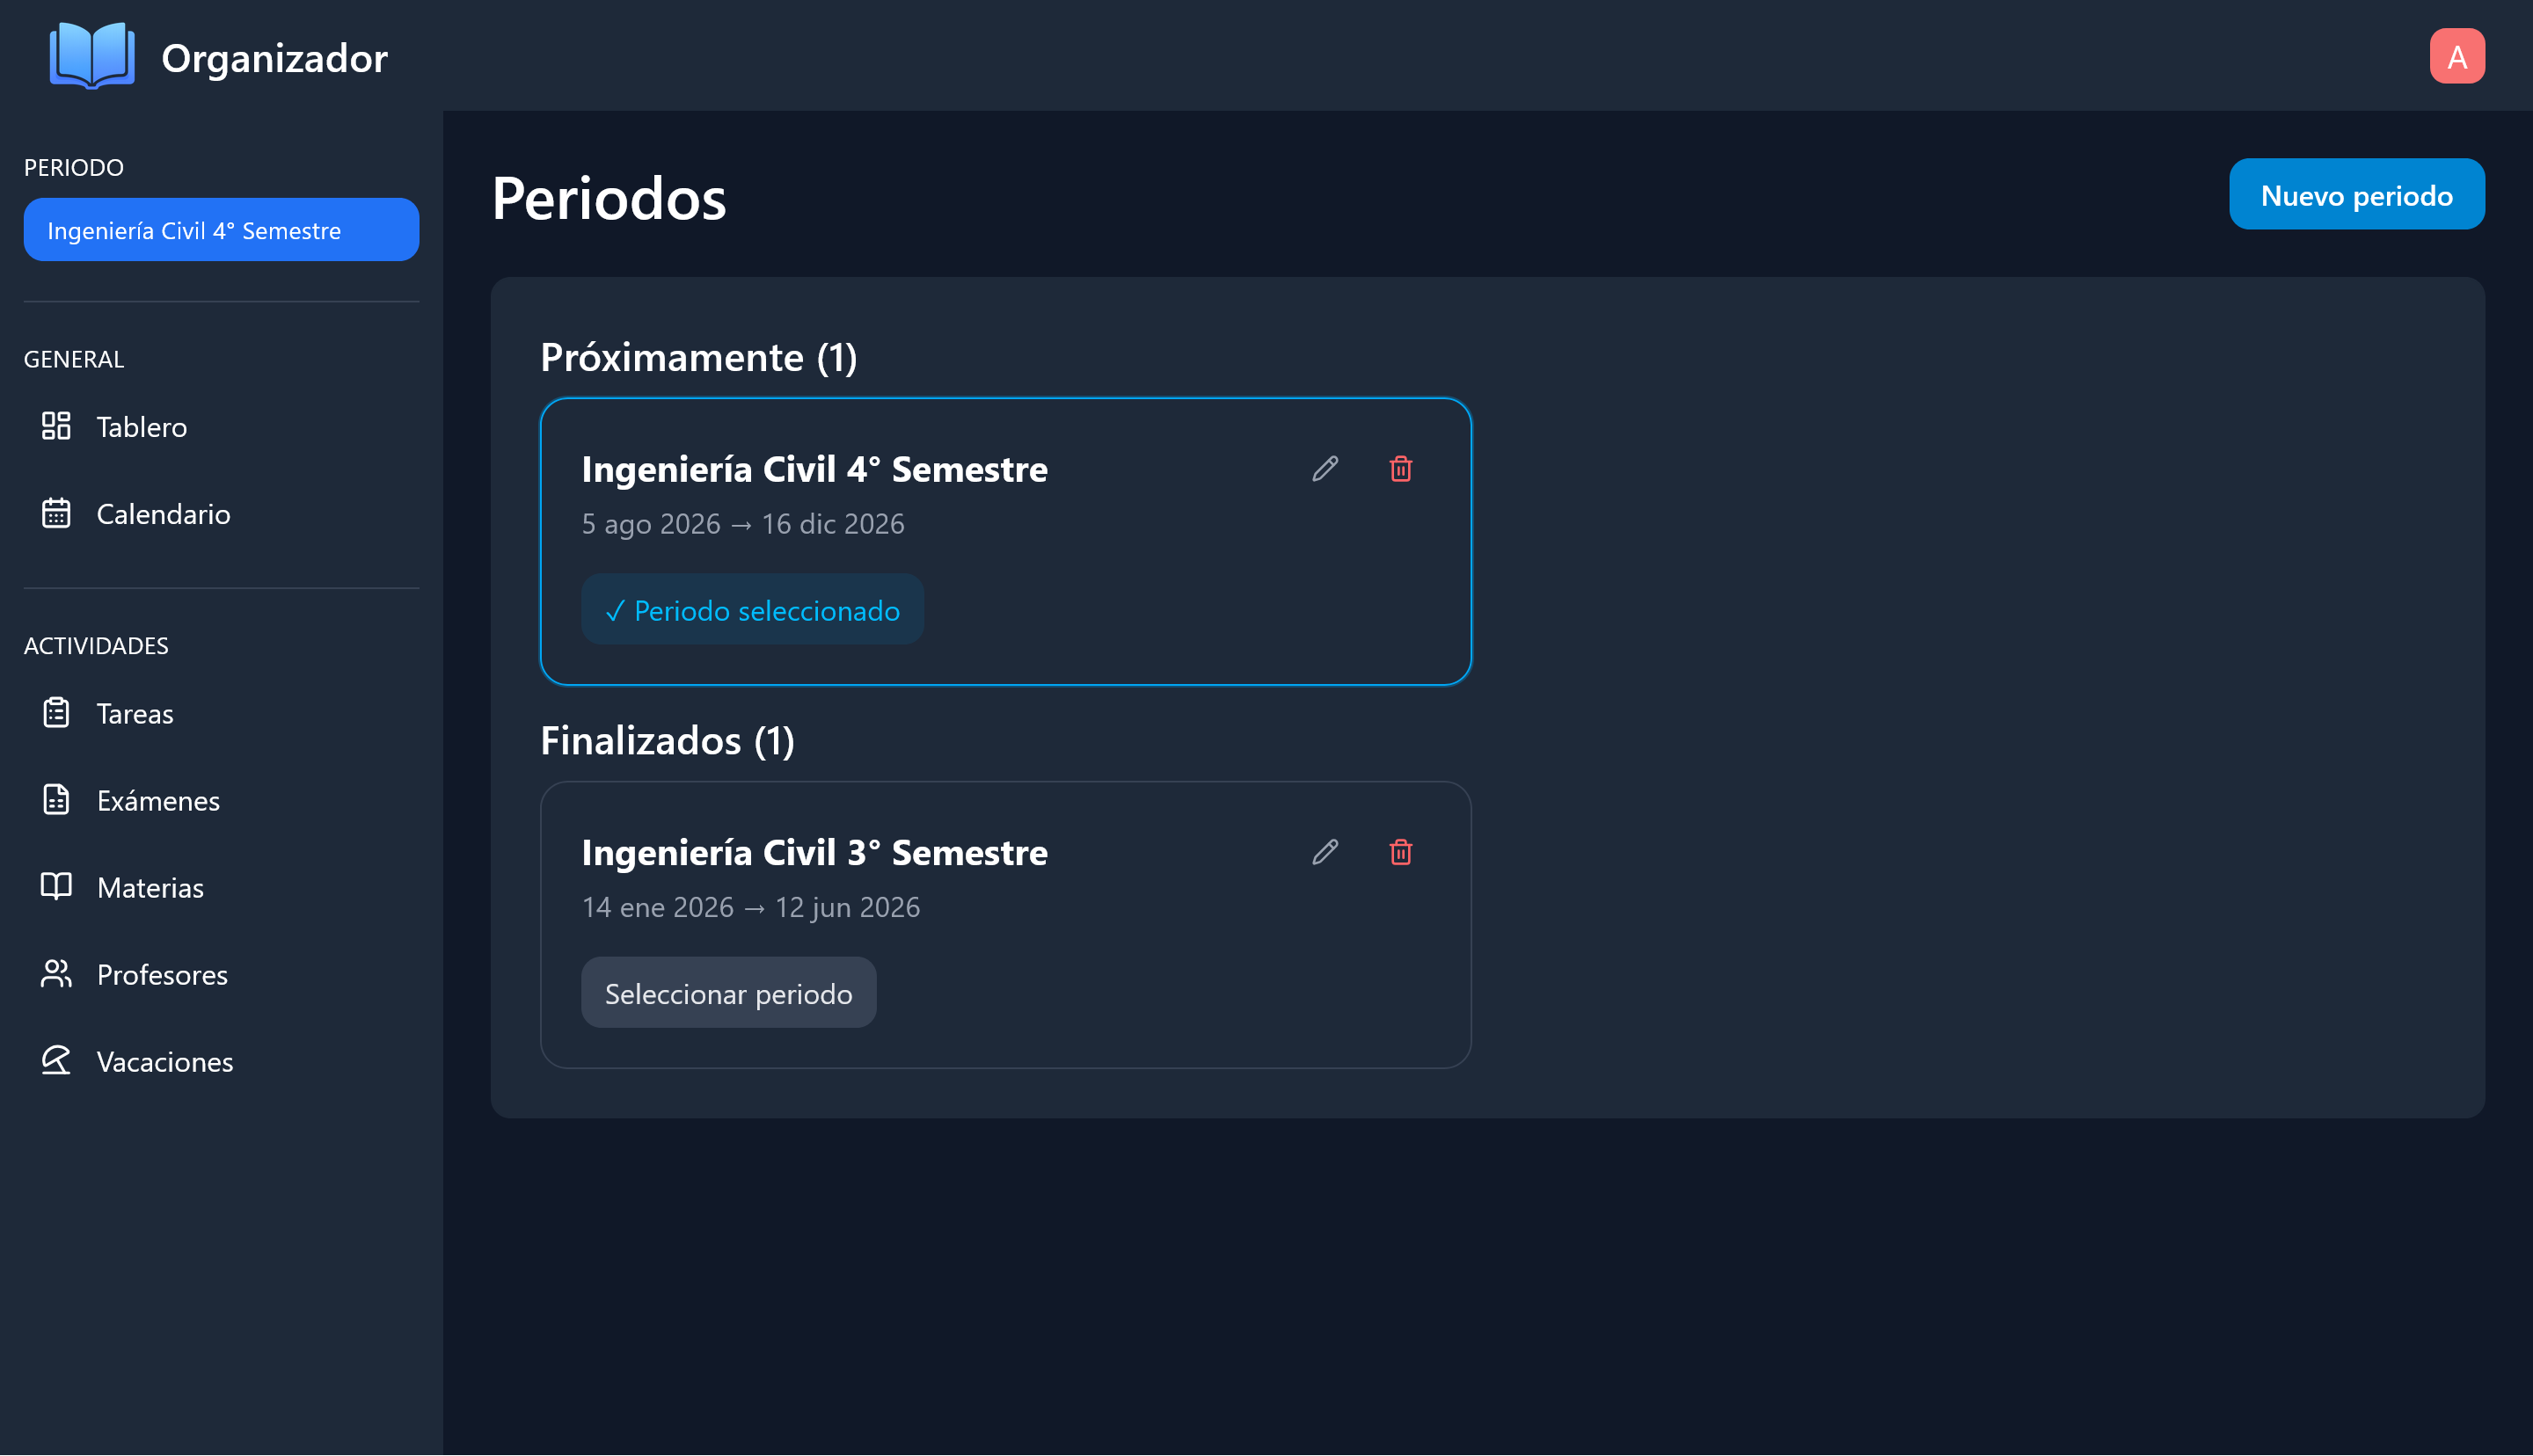
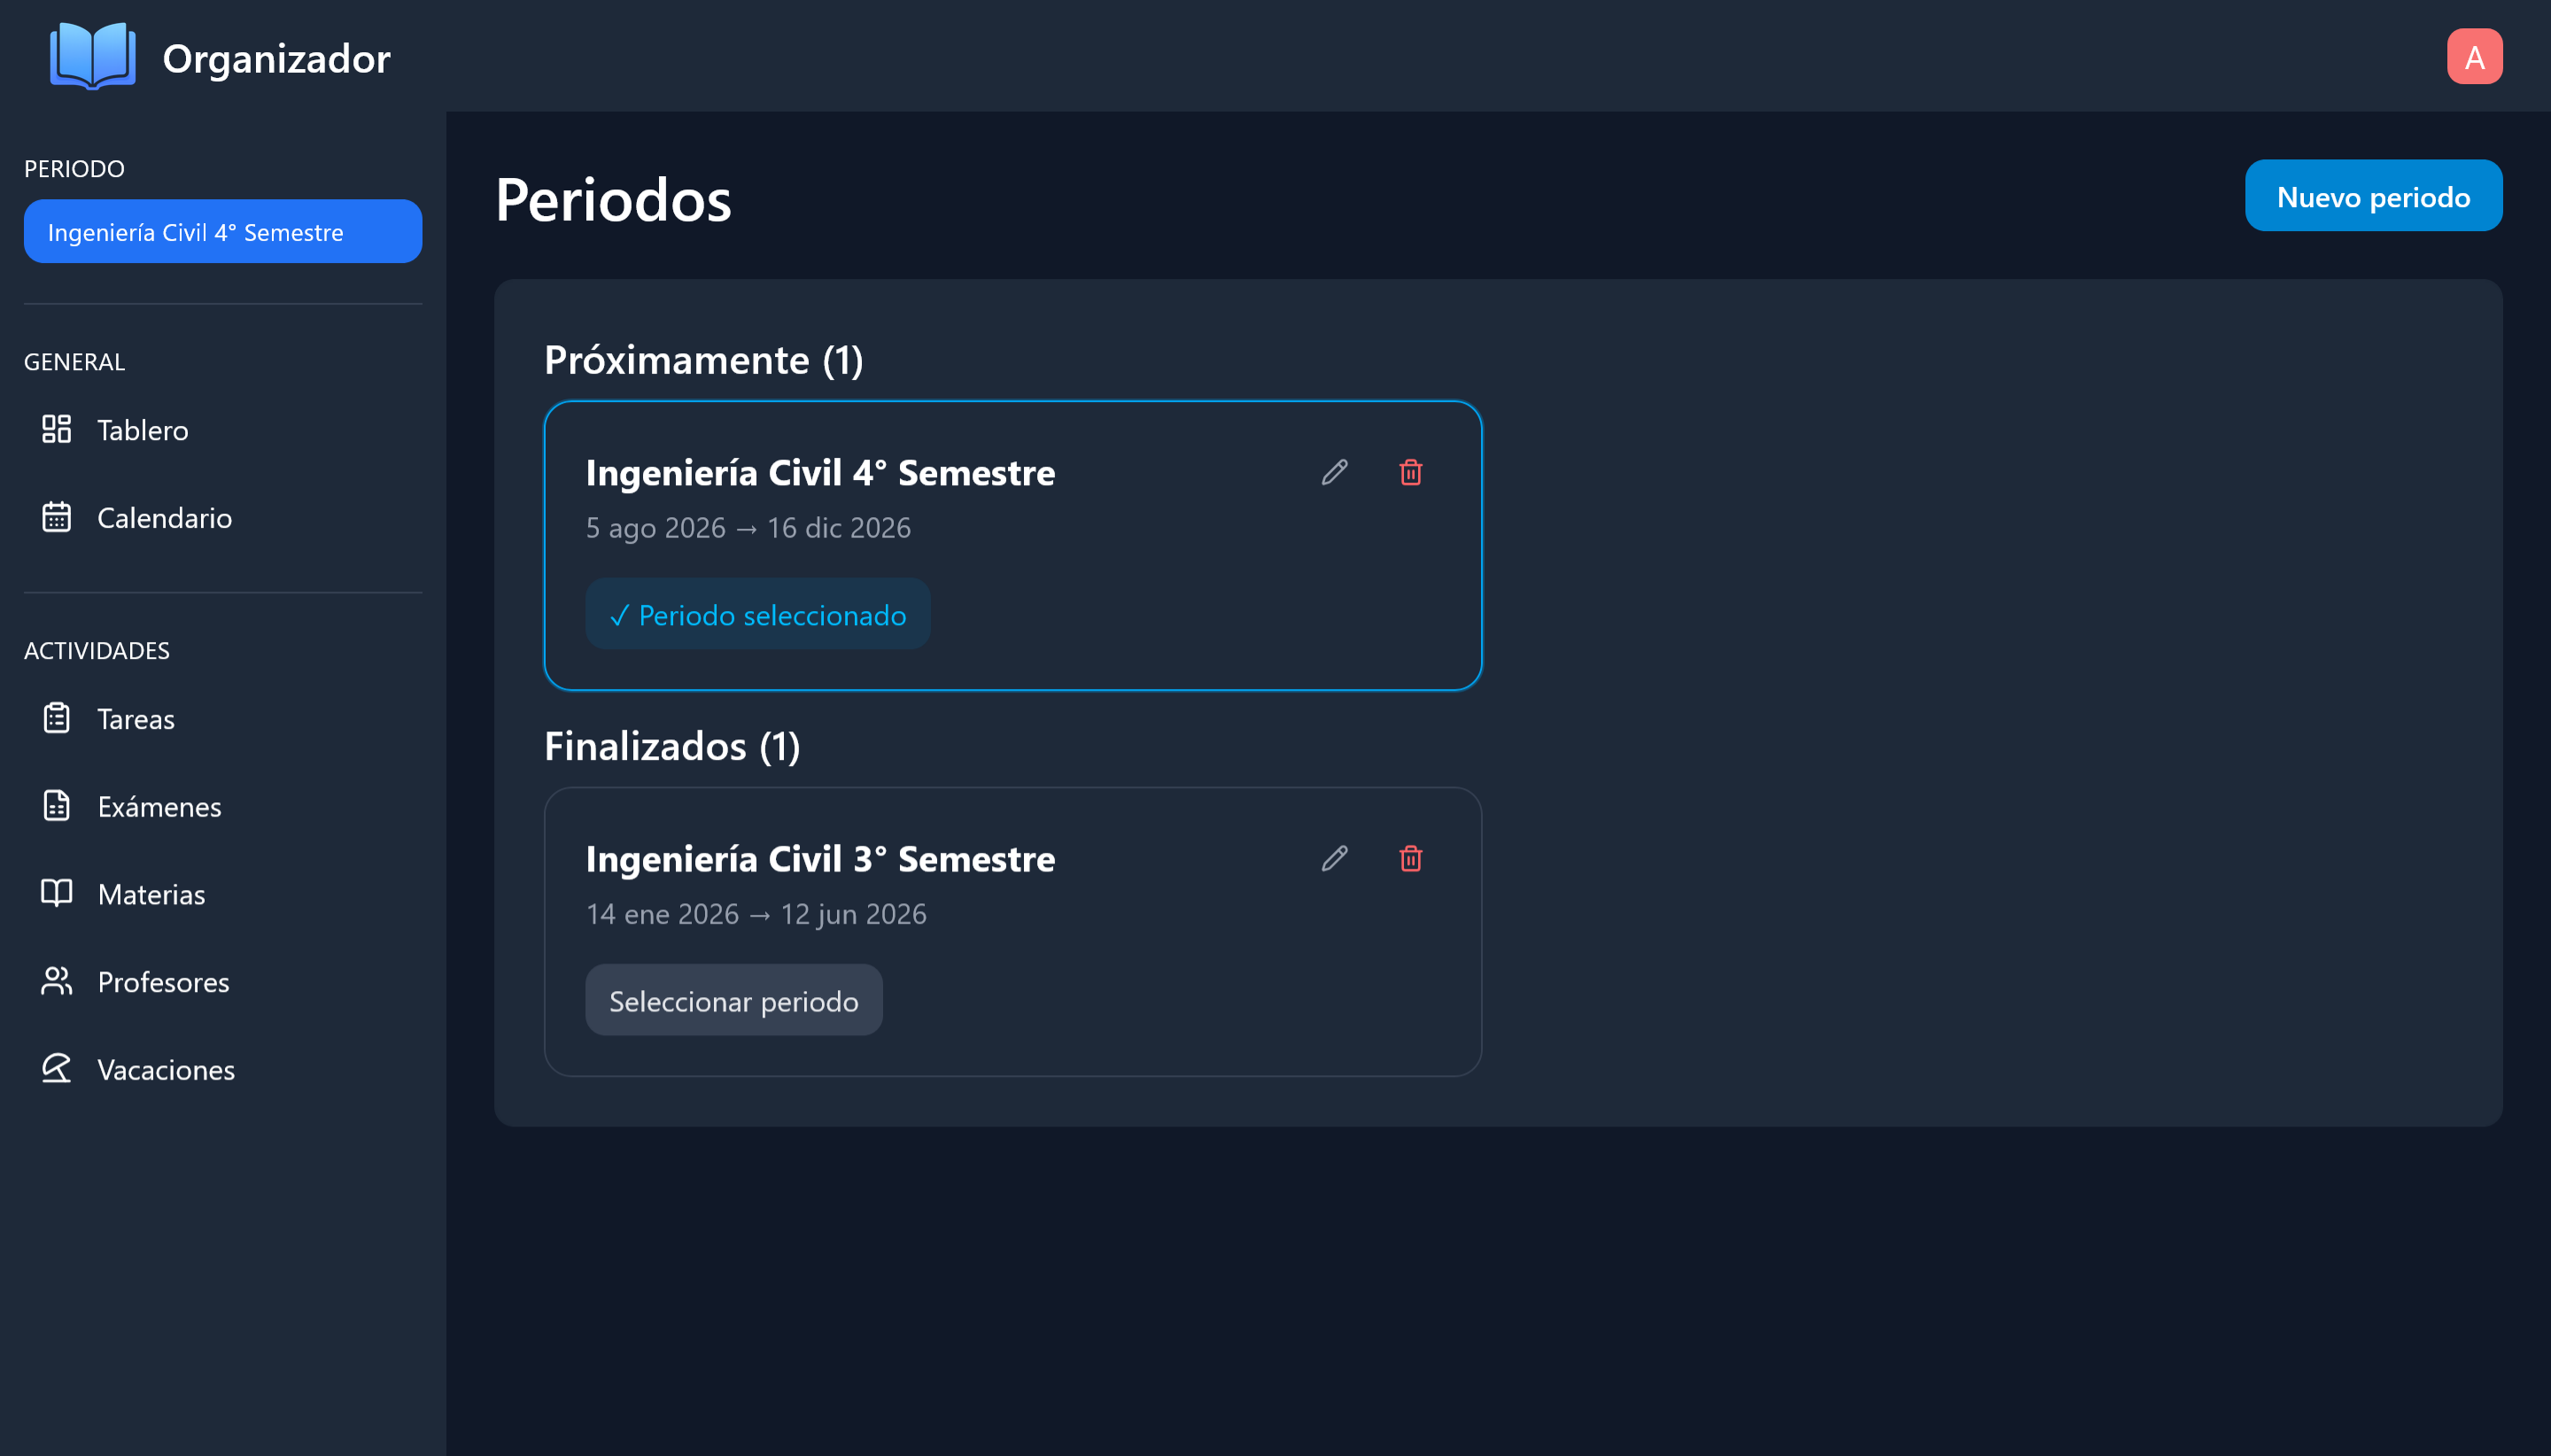
Improved "Inicio" page
-Added FAQ section to "Inicio" page.
-Added footer to LandingLayout.
-Added new design to /features Navlink on Mobile menu.

diff --git a/src/pages/Inicio.jsx b/src/pages/Inicio.jsx
@@ -1,73 +1,155 @@
-import { useEffect } from "react";
+import { useEffect, useState } from "react";
 import { NavLink } from "react-router-dom";
 import demo_periodos from "../assets/demo_periodos.png"
+import { ChevronDown } from "lucide-react";
 
 export default function Inicio() {
+
+  const [openIndex, setOpenIndex] = useState(null);
+
+  const toggleFAQ = (index) => {
+    setOpenIndex(openIndex === index ? null : index);
+  };
 
   useEffect(() => {
     document.title = "Organizador";
   }, []);
 
-  return(
-    <div className="min-h-dvh w-full bg-slate-950 bg-gradient-to-b from-blue-900/30 via-slate-950 to-slate-950">
-      {/* CENTER WRAPPER */}
-      <div className="mx-auto flex min-h-dvh max-w-7xl justify-center ">
-        <section className=" w-full px-6 pt-18 sm:pt-32 pb-20">
-          <div className=" z-10 mx-auto w-full">
-            {/* Texto */}
-            <div className="mx-auto max-w-4xl text-center">
-              <span className="rounded-full border border-blue-500/20 bg-blue-500/10 px-4 py-2 text-sm text-blue-400">
-                Organiza materias, tareas y exámenes
-              </span>
+  // Questions
+  const faqs = [
+    {
+      question: "¿Kitab es realmente gratuito?",
+      answer: "Sí. Kitab sigue una filosofía de código abierto (Open Source). Fue desarrollado como parte de mi portafolio profesional y puedes utilizarlo sin costo."
+    },
+    {
+      question: "¿Cómo se guardan mis datos?",
+      answer: "Las contraseñas se almacenan de forma segura utilizando bcrypt. Ningún dato sensible es expuesto al frontend y todas las consultas a la base de datos están protegidas mediante consultas parametrizadas para prevenir inyecciones SQL."
+    },
+    {
+      question: "¿Qué son los periodos?",
+      answer: "Los periodos representan ciclos escolares, como semestres o cuatrimestres. Te permiten organizar materias, tareas, exámenes y calificaciones sin mezclar información de distintos ciclos académicos."
+    },
+    {
+      question: "¿Puedo acceder a mi información desde distintos dispositivos?",
+      answer: "Sí. Al iniciar sesión con tu cuenta, tu información estará disponible en cualquier dispositivo."
+    }
+  ];
 
-              <h1 className="mt-6 text-5xl font-bold tracking-tight text-white md:text-7xl">
+  return(
+    <div className="h-auto w-full bg-slate-950 bg-linear-to-b from-blue-900/30 via-slate-950 to-slate-950  text-white">
+      {/* CENTER WRAPPER */}
+      <div className="mx-auto flex flex-col w-full max-w-7xl justify-center">
+        {/* Hero section */}
+        <section className="w-full pl-6 lg:pl-14 pr-0 pt-16 sm:pt-22 pb-6 overflow-hidden">
+          <div className="z-10 mx-auto w-full flex flex-col md:flex-row gap-3 items-start">
+            {/* Texto */}
+            <div className="w-full flex-1 text-left">
+
+              <h1 className=" text-5xl font-bold tracking-tight text-white md:text-5xl">
                 Todo tu semestre
                 <br />
                 en un solo lugar.
               </h1>
 
-              <p className="mx-auto mt-6 max-w-2xl text-lg text-slate-400">
-                Gestiona periodos escolares, materias, tareas y fechas
-                importantes desde una plataforma diseñada para estudiantes.
+              <p className="mt-6 max-w-xl text-lg text-slate-300">
+                Organiza tu caos universitario. Todo tu semestre, a un clic. Totalmente gratuito.
               </p>
 
-              <div className="mt-10 flex justify-center gap-4">
+              <div className="mt-5 lg:mt-10 flex justify-start gap-4">
                 <NavLink to="/auth/signup" className="rounded-xl bg-blue-600 px-6 py-3 font-medium text-white transition hover:bg-blue-500 cursor-pointer">
                 Comenzar gratis
                 </NavLink>
 
-                <NavLink to="features" className="
-                  rounded-xl
-                  border border-slate-700
-                  px-6 py-3
-                  font-medium
-                  text-white
-                  transition
-                  hover:border-blue-500/50
-                  hover:bg-blue-500/10
-                  cursor-pointer
-                ">
-                  Ver funciones
-                </NavLink>
+                {/* 
+                  <NavLink to="features" className="
+                    rounded-xl
+                    border border-slate-700
+                    px-6 py-3
+                    font-medium
+                    text-white
+                    transition
+                    hover:border-blue-500/50
+                    hover:bg-blue-500/10
+                    cursor-pointer
+                  ">
+                    Ver funciones
+                  </NavLink>
+                */}
+                
               </div>
             </div>
 
             {/* Screenshot */}
-            <div className="mt-20 flex justify-center">
-              <div className="w-full max-w-5xl">
+            <div className="flex flex-col md:flex-row justify-end items-end md:items-start flex-1 md:self-start mt-6 lg:mt-0 w-full">
+              <div className="w-full max-w-5xl flex flex-col items-end md:flex-row md:justify-end">
                 <img
                   src={demo_periodos}
                   alt="Vista previa de Organizador"
                   className="
-                  w-full
-                  rounded-sm
-                  lg:rounded-3xl
-                  border border-slate-700
-                  shadow-2xl
+                    w-full 
+                    md:w-[calc(50vw-3.5rem)]
+                    h-[300px] 
+                    sm:h-[400px]
+                    object-cover
+                    object-left-top
+                    rounded-sm
+                    lg:rounded-sm
+                    [mask-image:linear-gradient(to_bottom,rgba(0,0,0,1)_85%,rgba(0,0,0,0)_100%),linear-gradient(to_right,rgba(0,0,0,1)_85%,rgba(0,0,0,0)_100%)]
+                    [mask-composite:intersect]
                   "
                 />
               </div>
             </div>
+
+          </div>
+        </section>
+
+        {/* Frequently asked questions */}
+        <section className="flex flex-col md:flex-row w-full px-6 pt-16 sm:pt-18 pb-6 overflow-hidden">
+          {/* Title */}
+          <div className="flex flex-1 text-3xl font-light">Preguntas Frecuentes</div>
+
+          {/* Questions Container */}
+          <div className="flex flex-1 flex-col pt-6 md:pt-0">
+            {/* Questions accordeon */
+            faqs.map((faq, index) =>{
+              const isOpen = openIndex === index;
+              return(
+                <div key={index} 
+                className="border border-slate-900 bg-white/7 overflow-hidden transition-colors duration-300">
+
+                  {/* Botón de la Pregunta */}
+                  <button
+                    onClick={() => toggleFAQ(index)}
+                    className="w-full flex justify-between items-center p-5 text-left text-white font-medium hover:bg-slate-900/40 transition-colors cursor-pointer"
+                  >
+                    <span>{faq.question}</span>
+                    <ChevronDown 
+                      className={`w-5 h-5 text-slate-400 transition-transform duration-300 ${
+                        isOpen ? "rotate-180 text-blue-500" : ""
+                      }`}
+                    />
+                  </button>
+
+                  {/* Contenedor del Acordeón Animado (El truco de Grid) */}
+                  <div 
+                    className={`grid transition-all duration-300 ease-in-out ${
+                      isOpen ? "grid-rows-[1fr] opacity-100" : "grid-rows-[0fr] opacity-0"
+                    }`}
+                  >
+
+                    {/* Contenedor interno con overflow-hidden obligatorio */}
+                    <div className="overflow-hidden">
+                      <p className="p-5 pt-0 text-slate-400 text-sm leading-relaxed">
+                        {faq.answer}
+                      </p>
+                    </div>
+                  </div>
+                </div>
+              )
+            })
+            }
+
           </div>
         </section>
       </div>

diff --git a/src/components/Footer.jsx b/src/components/Footer.jsx
@@ -1,0 +1,35 @@
+import { Link } from "react-router-dom"
+
+export default function Footer(){
+   return(
+    <footer className="w-full bg-slate-950 border-t border-slate-900 py-8 text-slate-400 text-sm px-4 lg:px-6">
+      <div className="mx-auto max-w-7xl flex flex-col md:flex-row justify-between items-center gap-6">  
+        {/* Izquierda: Nombre y Copyright */}
+        <div>
+          <p className="font-semibold text-white text-center md:text-left">Kitab</p>
+          <p className="text-xs mt-1">© {new Date().getFullYear()} Alfonso Conejo. Proyecto de portafolio.</p>
+        </div>
+
+        {/* Centro: Enlaces simulados del producto */}
+        <div className="flex gap-6 text-xs">
+          <Link to="features/" className="hover:text-white transition">Funciones</Link>
+          <Link to="about/" className="hover:text-white transition">Acerca de</Link>
+          <a href="https://github.com/AlfonsoConejo/student-planner" target="_blank" rel="noreferrer" className="hover:text-white transition font-medium text-blue-400">
+            Ver código en GitHub
+          </a>
+        </div>
+
+        {/* Derecha: Redes/Contacto */}
+        <div className="flex gap-4">
+          <a href="https://www.linkedin.com/in/alfonso-conejo/" target="_blank" rel="noreferrer" className="hover:text-white transition">
+            LinkedIn
+          </a>
+          <a href="https://github.com/AlfonsoConejo/" target="_blank" rel="noreferrer" className="hover:text-white transition">
+            Portafolio
+          </a>
+        </div>
+
+      </div>
+    </footer>
+   ) 
+};

diff --git a/src/components/header/LandingHeader.jsx b/src/components/header/LandingHeader.jsx
@@ -27,7 +27,7 @@ export default function LandingHeader() {
           {/* Logo */}
           <Link to="/" className="flex items-center">
             <img src={logo} className="mr-3 h-7 sm:h-8" alt="Site logo" />
-            <span className="self-center text-xl font-semibold whitespace-nowrap text-white logo">Kitab</span>
+            <span className="self-center text-xl font-semibold whitespace-nowrap text-white logo translate-y-[2px]">Kitab</span>
           </Link>
         </div>
 
@@ -41,7 +41,7 @@ export default function LandingHeader() {
           
           <Link
             to="/auth/signup"
-            className="hidden sm:inline-block bg-blue-600 hover:bg-blue-500 text-white font-semibold rounded-md text-sm px-4 lg:px-5 py-2 lg:py-2.5 mr-2 transition-all  duration-200 shadow-md shadow-blue-900/30"
+            className="hidden sm:inline-block bg-blue-600 hover:bg-blue-500 text-white font-semibold rounded-md text-sm px-4 lg:px-5 py-2 lg:py-2.5 transition-all  duration-200 shadow-md shadow-blue-900/30"
           >
             Registrarse
           </Link>  
@@ -132,8 +132,13 @@ export default function LandingHeader() {
             </li>
             <li>
               <NavLink
-                to="/about"
-                className="block px-6 py-4 text-gray-300 hover:bg-gray-700"
+                to="/features"
+                className={({ isActive }) =>
+                  `block px-6 pr-4 py-4 text-md md:text-lg
+                  hover:text-white hover:bg-gray-700
+                  lg:hover:bg-transparent lg:border-0 lg:p-0
+                  ${isActive ? "text-white" : "text-gray-400"}`
+                }
                 onClick={() => setIsMenuOpen(false)}
               >
                 Acerca de

diff --git a/src/layouts/LandingLayout.jsx b/src/layouts/LandingLayout.jsx
@@ -1,4 +1,5 @@
 import LandingHeader from "../components/header/LandingHeader";
+import Footer from "@/components/Footer";
 import { Outlet } from "react-router-dom";
 
 
@@ -11,13 +12,14 @@ export default function LandingLayout() {
   }
 
   return (
-    <>
+    <div className="flex flex-col min-h-dvh w-full bg-slate-950 bg-linear-to-b from-blue-900/30 via-slate-950 to-slate-950">
       <LandingHeader />
 
-      <main>
+      <main className="flex-1 flex flex-col items-stretch">
         <Outlet/>
       </main>
       
-    </>
+      <Footer />
+    </div>
   );
 }

diff --git a/src/index.css b/src/index.css
@@ -54,11 +54,11 @@
 
 body {
   margin: 0;
+  min-height: 100dvh;
 }
 
 html, body {
   background-color: var(--bg-dark);
-  min-height: 100dvh;
 }
 
 /*Acá empiezan los estilos del main-loader*/